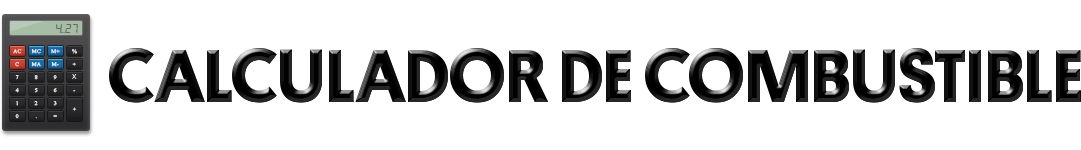
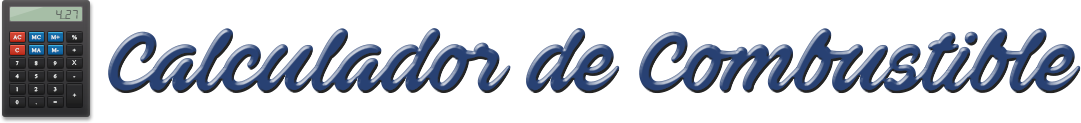
En la rama principal  Tu rama está actualizada con 'origin/principal'.
Cambios a ser confirmados:
	modificados:     css/style.css
	modificados:     images/header.png
	modificados:     js/calculator.js

diff --git a/js/calculator.js b/js/calculator.js
@@ -46,9 +46,9 @@ function calculateVolume() {
             : `${metrostoFixed(2)}%`; // Dos cecimales para números flotantes
                  
         resultElement.innerHTML = `
-    <div class="dato-resultado"><img src="images/attention.svg" alt="Signo de alerta"><span class="cantidad-span" id="texto-atención" style="color: red">¡La altura ingresada excede la capacidad del tanque!</span></div>
-    <div class="dato-resultado"><span class="cantidad-texto-span">Máxima altura</span><span class="cantidad-span" style="color: blue">${metros} metros</span></div>
-    <div class="dato-resultado"><span class="cantidad-texto-span">Capacidad del tanque</span><span class="cantidad-span" style="color: green">${fullVolumeLiters.toFixed(0).toLocaleString().trim()} litros</span></div>
+    <div class="dato-resultado"><img src="images/attention.svg" alt="Signo de alerta"><span class="cantidad-span" id="texto-atención" style="color: #c43f35">¡La altura ingresada excede la capacidad del tanque!</span></div>
+    <div class="dato-resultado"><span class="cantidad-texto-span">Máxima altura</span><span class="cantidad-span" style="color: #284173">${metros} metros</span></div>
+    <div class="dato-resultado"><span class="cantidad-texto-span">Capacidad del tanque</span><span class="cantidad-span" style="color: #ce813c">${fullVolumeLiters.toFixed(0).toLocaleString().trim()} litros</span></div>
     `;
     } else {
         const percentageOccupied = (currentVolumeM3 / fullVolumeM3) * 100;
@@ -64,9 +64,9 @@ function calculateVolume() {
         }
 
         resultElement.innerHTML = `
-    <div class="dato-resultado"><span class="cantidad-texto-span">Cantidad actual</span><span class="cantidad-span" style="color: blue">${currentVolumeLiters.toFixed(0).toLocaleString().trim()} litros</span></div>
-    <div class="dato-resultado"><span class="cantidad-texto-span">Capacidad total</span><span class="cantidad-span" style="color: green">${fullVolumeLiters.toFixed(0).toLocaleString().trim()} litros</span></div>
-    <div class="dato-resultado"><span class="cantidad-texto-span">Porcentaje ocupado</span><span class="cantidad-span" style="color: orange">${formattedPercentage}</span></div>
+    <div class="dato-resultado"><span class="cantidad-texto-span">Cantidad actual</span><span class="cantidad-span" style="color: #284173">${currentVolumeLiters.toFixed(0).toLocaleString().trim()} litros</span></div>
+    <div class="dato-resultado"><span class="cantidad-texto-span">Capacidad total</span><span class="cantidad-span" style="color: #ce813c">${fullVolumeLiters.toFixed(0).toLocaleString().trim()} litros</span></div>
+    <div class="dato-resultado"><span class="cantidad-texto-span">Porcentaje ocupado</span><span class="cantidad-span" style="color: #40a4bc">${formattedPercentage}</span></div>
     `;
     }
     // Dibuja el tanque

diff --git a/css/style.css b/css/style.css
@@ -53,6 +53,7 @@ header img:hover {
     padding: 1rem;
 }
 
+/*
 h1 {
     color: #2c3e50;
     text-align: center;
@@ -60,7 +61,6 @@ h1 {
     margin-top: 0rem;
 }
 
-/*
 .input-section {
     display: flex;
     flex-direction: column;
@@ -83,6 +83,7 @@ label {
 */
 
 .input-group {
+    color: #303030;
     display: flex;
     flex-direction: column;
     align-items: center;
@@ -156,7 +157,7 @@ button:hover {
 
 #result {
     font-family: 'Platform Medium';
-    color: #2c3e50;
+    color: #303030;
     text-align: center;
     width: 100%;
     display: flex;
@@ -235,6 +236,7 @@ footer {
 }
 
 #text-footer {
+    color: #303030;
     margin-top: .5rem;
     font-size: 2rem;
     margin-right: .5rem;
